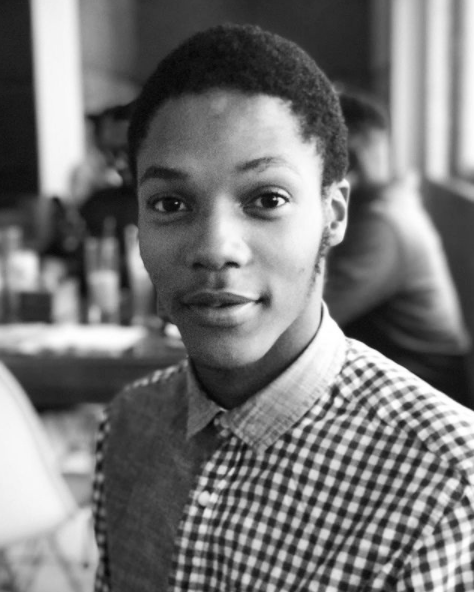
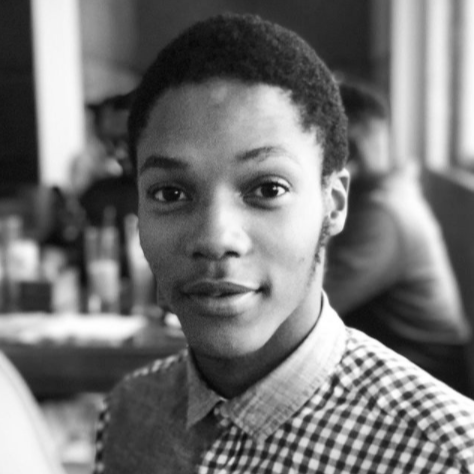
resume5

diff --git a/resume1.html b/resume1.html
@@ -6,9 +6,10 @@
     </head>
     <body>
         <header id="header">
+            <br>
             <img src="images/headshot.PNG"
             alt="MyHeadshot"
-            width="200px">
+            id="profilePhoto">
         <p>
             <h1>Kwakhanya Magutywa</h1>
         </p>
@@ -16,7 +17,8 @@
             environment that offers opportunity for growth. Possesses exceptional communication skills, work-ethic,
             and great interpersonal skills. Dynamic and enthusiastic; work well in teams to meet deadlines and
             solve complex tasks. Consistently showcase the ability to analyse issues, recognise problems and draw
-            logical conclusions.
+            logical conclusions.<br>
+            <br>
         </p>
         </header>
 <main>
@@ -24,7 +26,7 @@
      <div id="sidebar">
          <nav>
             <h2>Menu</h2>
-            <ul>
+            <ul class="navList">
                 <li>  <a href="#education">Education</a></li>
                 <li>  <a href="#experience">Work Experience</a></li>
                 <li>  <a href="#skills">Acquired Skills</a></li>

diff --git a/css/stylesheet.css b/css/stylesheet.css
@@ -1,18 +1,39 @@
 body{
-  font-family: sans-serif;
+  font-family: Georgia, 'Times New Roman', Times, serif;
   font-size:110%;
   background-color: #FCF7F8;
   font-color:black;
 }
+#sidebar{
+  width:10%;
+  background-color: teal;
+  padding:1rem;
+  color:black
+}
+.navList{
+  list-style-type: none;
+  padding:0%;
+}
 
+#profilePhoto{
+  width: 15%;
+  height:15%;
+  border-radius: 50%;
+  border: 5px solid black
+}
 #header {
-  background-color: #343330;
+  background-color: #bc992d;
   text-align: center;
   font-family: Georgia, 'Times New Roman', Times, serif;
   
 }
+.icons{
+  width:3rem;
+  margin:2rem;
+  height: auto;
+}
 
 footer {
-  background-color: #343330;
-  text-align: center;
+  background-color: #bc992d;
+   text-align: center;
 }
